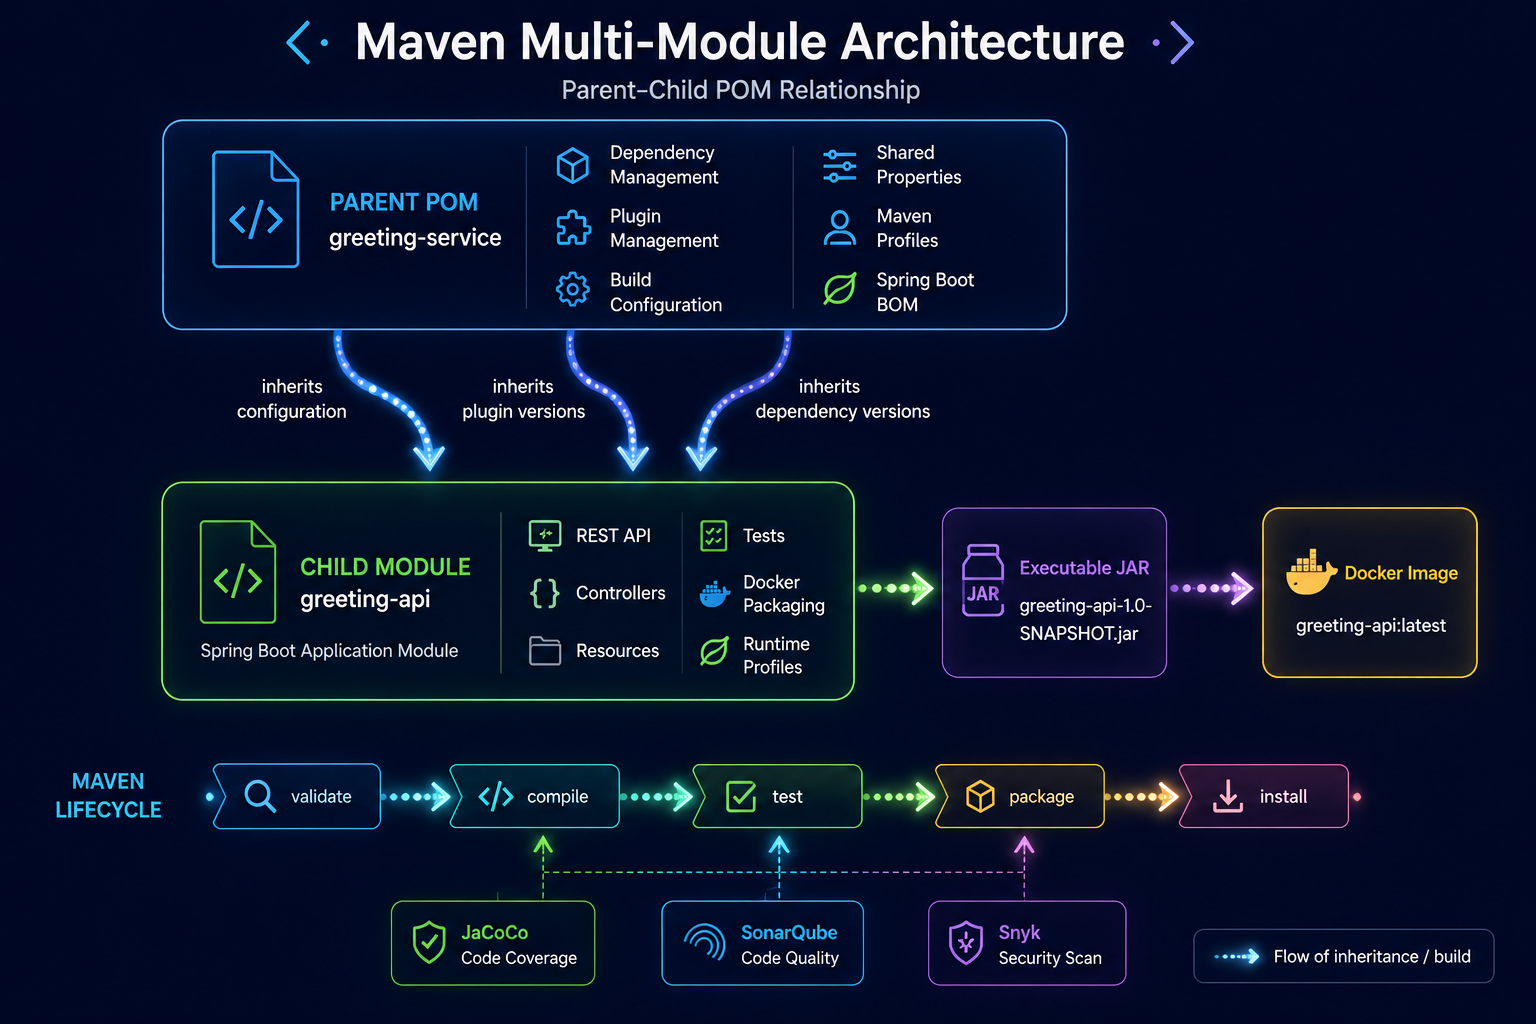
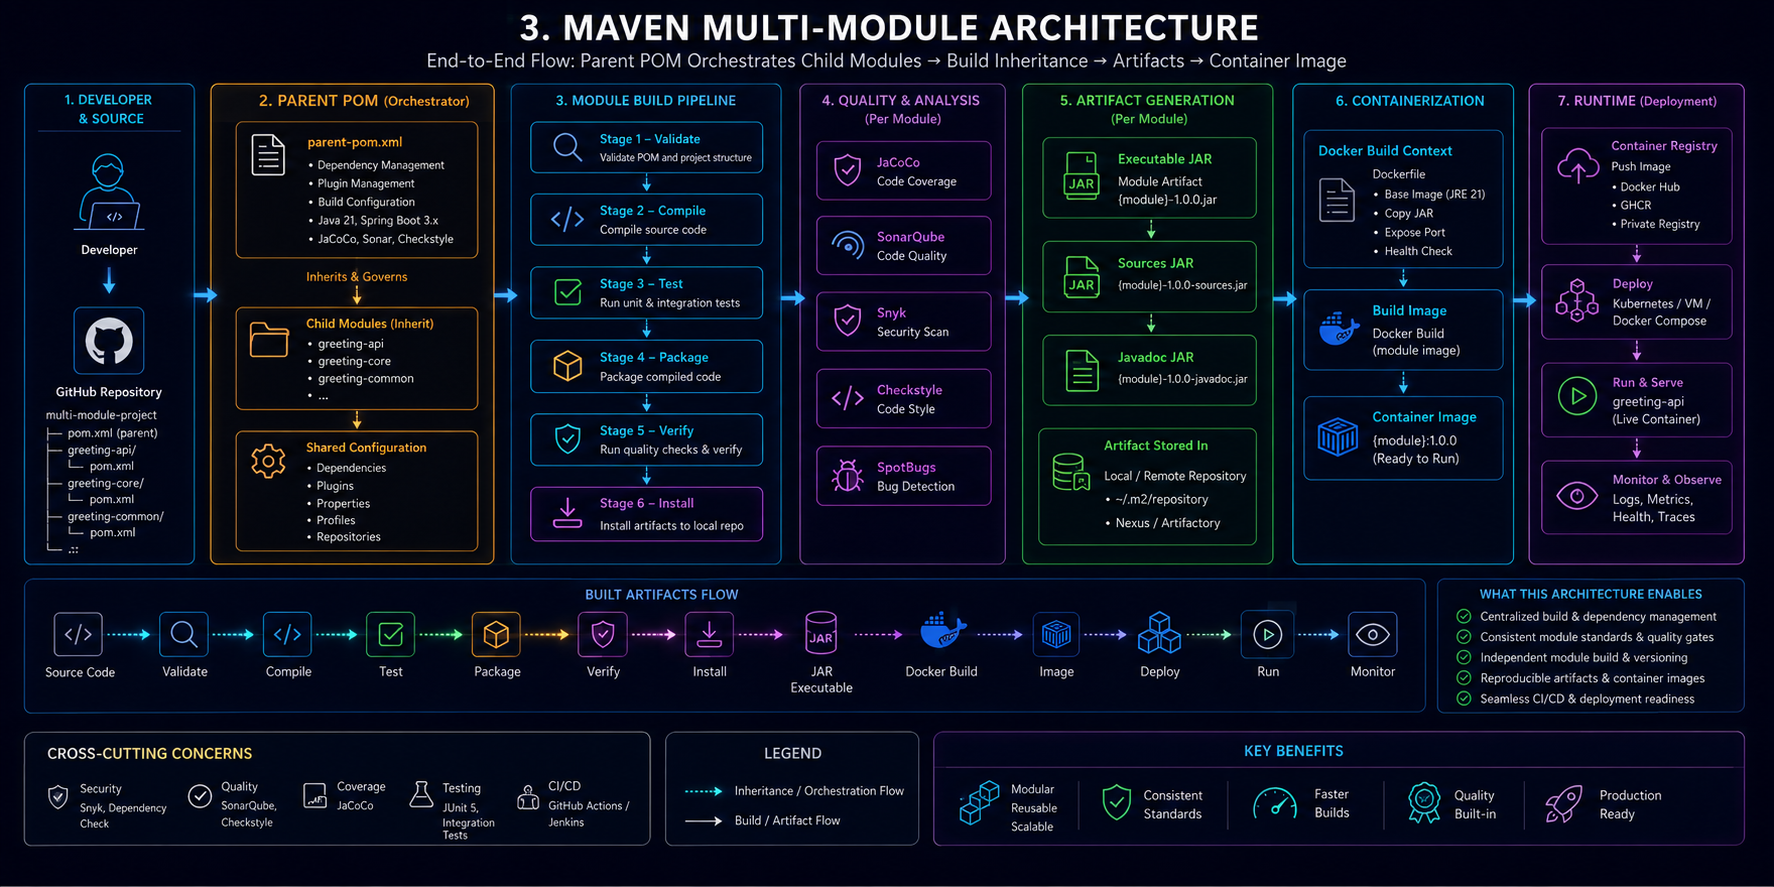
updated gitignore and architecture.md

diff --git a/greetings-service/docs/architecture.md b/greetings-service/docs/architecture.md
@@ -138,30 +138,82 @@ The 80% instruction coverage threshold was chosen as a practical middle ground. 
 
 ---
 
-## 12. Future Evolution
+## 12. Future-State Enterprise DevSecOps Architecture
 
-Where the architecture naturally grows from here as the system scales beyond a local deployment stack.
+Where the architecture naturally grows from here as the system scales into a full production engineering workflow.
 
-### Database Integration
+The diagram above maps the complete end-to-end pipeline — Source → Build → Scan → Package → Deploy → Observe — across eight stages with cross-cutting concerns applied at every layer.
 
-The application is currently stateless — responses are generated in-memory with no persistence layer. The next natural step is adding a relational database like PostgreSQL, which would introduce Spring Data JPA, entity models, repository layers, and schema migration tooling. Docker Compose would extend to orchestrate the database container alongside the API, with a persistent volume keeping data alive across container restarts.
+---
 
-### Kubernetes Replacing Docker Compose
+### Stage 1 — Source Control
 
-Docker Compose handles local orchestration well but is not built for production scale. Kubernetes would replace it with automated scheduling, self-healing containers, horizontal scaling, rolling deployments, and declarative infrastructure management through Pods, Services, ConfigMaps, and Secrets. The concepts introduced through Compose — networking, service discovery, environment injection, volume management — translate directly into Kubernetes primitives.
+GitHub remains the foundation. The evolution introduces a formal branch strategy — `feature/*` branches feeding into `develop`, which merges into `main`. This controls what gets built, when, and by whom, preventing unstable code from reaching the pipeline.
 
-### Centralized Logging
+### Stage 2 — Continuous Integration
 
-The current setup writes logs to a mounted volume inside the container. At scale, logs from multiple services and containers need to be aggregated centrally. A log shipper like Promtail or Fluentd would collect from `/app/logs/` and forward into a platform like Grafana Loki or the ELK stack, enabling searchable logs, cross-service tracing, alerting, and operational dashboards without manually inspecting individual containers.
+GitHub Actions automates the entire build pipeline on every push. Maven compiles and packages the application, Surefire runs unit tests, JaCoCo enforces coverage, SonarQube performs static analysis, and a quality gate validates everything before the pipeline continues. Nothing moves forward without passing the gate.
 
-### GitHub Actions CI/CD Pipeline
+### Stage 3 — Security and Quality Scanning
 
-Currently all operations — building, testing, quality analysis, Docker packaging — run manually. GitHub Actions would automate the entire pipeline on every Git push: compile, test, JaCoCo coverage, SonarQube analysis, Snyk scan, Docker build, image push, and deployment. This removes human error from the release process and enforces every quality gate automatically before anything reaches a running environment.
+Three dedicated security layers run in sequence. OWASP Dependency Check scans Maven dependencies for known vulnerabilities. Snyk performs a deeper security scan across the dependency tree. Trivy scans the container image for OS-level and runtime vulnerabilities. A security gate at the end of this stage blocks the pipeline if any critical issues are found.
 
-### NGINX Reverse Proxy and TLS
+### Stage 4 — Artifact and Image Build
 
-The application currently exposes ports directly to the host machine. In production, traffic would pass through an NGINX reverse proxy sitting in front of the Spring Boot container, handling TLS termination, HTTPS, request routing, rate limiting, and security headers. The container itself would no longer be publicly reachable — only NGINX would be exposed.
+Spring Boot packages the application into an executable JAR. Docker picks it up through the multi-stage build — the builder stage compiles and packages, the runtime stage produces a lightweight container image. The final container image is validated and ready to push.
 
-### Secrets Management with Vault
+### Stage 5 — Registry and Artifact Management
 
-Environment variables work for local development and small projects but become difficult to manage as systems grow — especially when secrets rotate, teams multiply, or compliance requirements increase. HashiCorp Vault would replace static environment variables with encrypted secret storage, dynamic credentials, rotation policies, and audit logging. Containers would retrieve secrets at startup rather than having them embedded in deployment configuration.
+The container image is pushed to an artifact registry — JFrog Artifactory or any OCI-compatible registry. Docker Registry stores versioned images. Image metadata, SBOM, and provenance information are attached to the artifact, giving the pipeline full traceability from source commit to deployed image.
+
+### Stage 6 — Deployment Automation
+
+ArgoCD takes the versioned image and handles GitOps continuous delivery — syncing the desired state from Git into the cluster automatically. Kubernetes orchestrates the running containers with self-healing, rolling deployments, and automatic rollback. Deployment sync keeps the cluster state aligned with what is declared in the repository.
+
+### Stage 7 — Runtime Delivery
+
+NGINX Ingress sits in front of the cluster handling reverse proxy, routing, and TLS termination. Spring Boot runs inside Kubernetes pods with the production profile active. Spring Actuator exposes health and metrics endpoints consumed by the observability layer.
+
+### Stage 8 — Observability and Monitoring
+
+Prometheus collects metrics from Actuator endpoints and fires alerts. Grafana visualizes those metrics as operational dashboards. Loki aggregates logs from all running containers and makes them queryable — replacing the mounted volume approach with centralized, searchable log infrastructure.
+
+---
+
+### Cross-Cutting Concerns
+
+These apply across every stage of the pipeline, not just at specific points.
+
+**Secrets Management** — HashiCorp Vault replaces static environment variables with dynamic secrets, rotation policies, and audit logging. Containers retrieve credentials at startup rather than having them embedded in configuration.
+
+**RBAC and Access Control** — Least privilege access enforced through IAM integration. No service or engineer has more access than their role requires.
+
+**Policy as Code** — OPA and Conftest enforce security and compliance policies automatically as part of the pipeline, not as manual review steps.
+
+**Infrastructure as Code** — Helm and Kustomize manage Kubernetes manifests declaratively. Every infrastructure change is version controlled and reproducible.
+
+**Pipeline Quality** — Code quality gates and security gates run at multiple points. Nothing reaches production without passing both.
+
+**Audit and Compliance** — Logs, events, and audit trails are captured across every stage for compliance and incident investigation.
+
+**Notifications** — Slack, email, and webhook integrations alert the right people when gates fail, deployments succeed, or incidents occur.
+
+---
+
+### Pipeline Principles
+
+The architecture is built around five engineering principles that apply regardless of which tools are in use.
+
+**Shift Left Security** — security scanning happens early in the pipeline, not after deployment. Finding vulnerabilities at build time is significantly cheaper than finding them in production.
+
+**Automate Everything** — every manual step is a source of inconsistency. The pipeline enforces quality, security, and deployment automatically without human intervention at each stage.
+
+**Fail Fast** — quality gates and security gates fail the pipeline immediately when thresholds are not met. Fast failure is cheaper than slow discovery.
+
+**Observe Continuously** — metrics, logs, and alerts run continuously in production. The system is always visible, not just when something breaks.
+
+**Evolve Continuously** — the pipeline is designed to grow. New tools, new stages, and new policies can be added without rebuilding the foundation.
+
+<div align="center">
+  <img src="./images/future-evolution.png" alt="Deployment Flow" width="100%"/>
+</div>